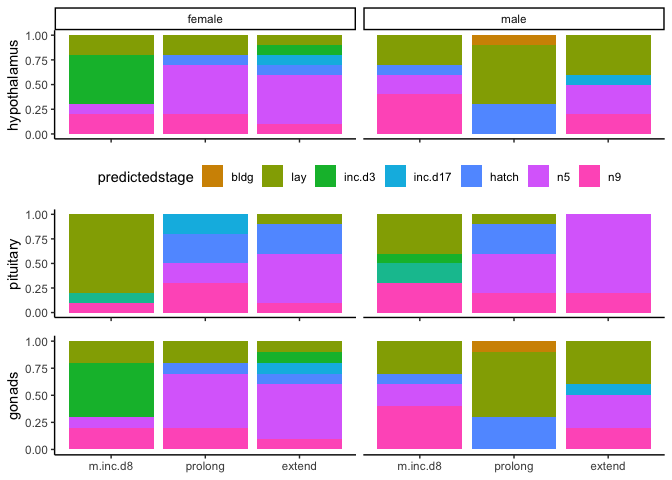
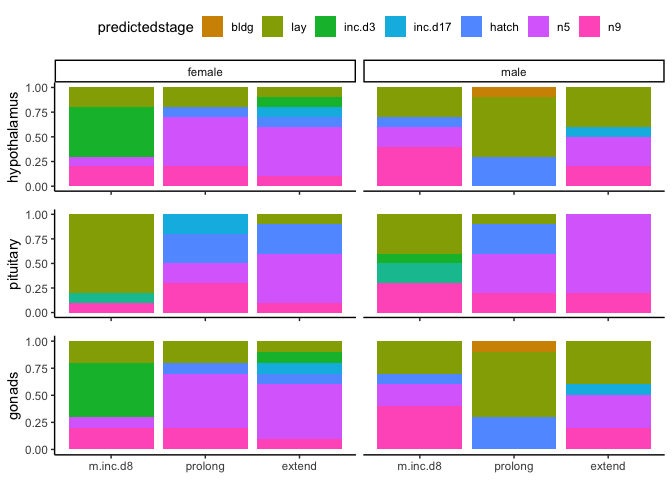
so many lda plots

Changed region(s): [[0.0, 0.0, 1.0, 0.4062]]

diff --git a/analysis/04_LDA.md b/analysis/04_LDA.md
@@ -249,10 +249,11 @@ Linear discriminant analysis (LDA)
       return(p)
     }
 
-
-    j <- plotfacetresults2(LDA.gon, levelstiming, "hypothalamus", 20) + labs(x = NULL) + theme(axis.text.x = element_blank()) +
-      theme(legend.position = "bottom") + guides(fill = guide_legend(nrow  = 1)) 
-    k <- plotfacetresults2(LDA.pit, levelstiming, "pituitary", 17) + theme(strip.text = element_blank()) + labs(x = NULL) + theme(axis.text.x = element_blank())
+    j <- plotfacetresults2(LDA.gon, levelstiming, "hypothalamus", 20) + labs(x = NULL) + 
+      theme(axis.text.x = element_blank()) +
+      theme(legend.position = "top") + guides(fill = guide_legend(nrow  = 1)) 
+    k <- plotfacetresults2(LDA.pit, levelstiming, "pituitary", 17) + 
+      theme(strip.text = element_blank()) + labs(x = NULL) + theme(axis.text.x = element_blank())
     l <- plotfacetresults2(LDA.gon, levelstiming, "gonads", 15) + theme(strip.text = element_blank()) + 
        labs(x = NULL)
 
